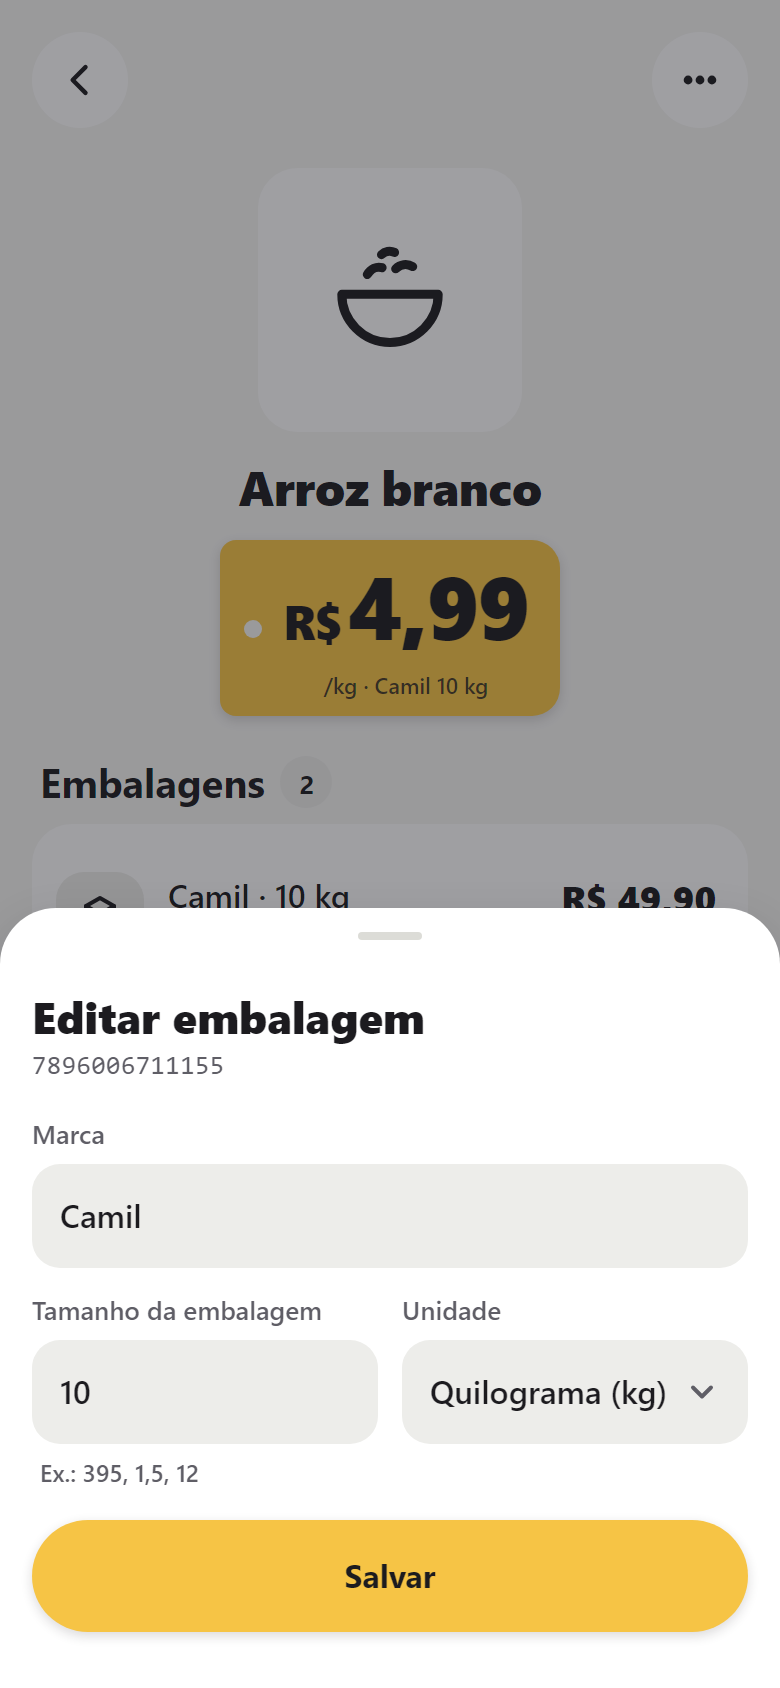
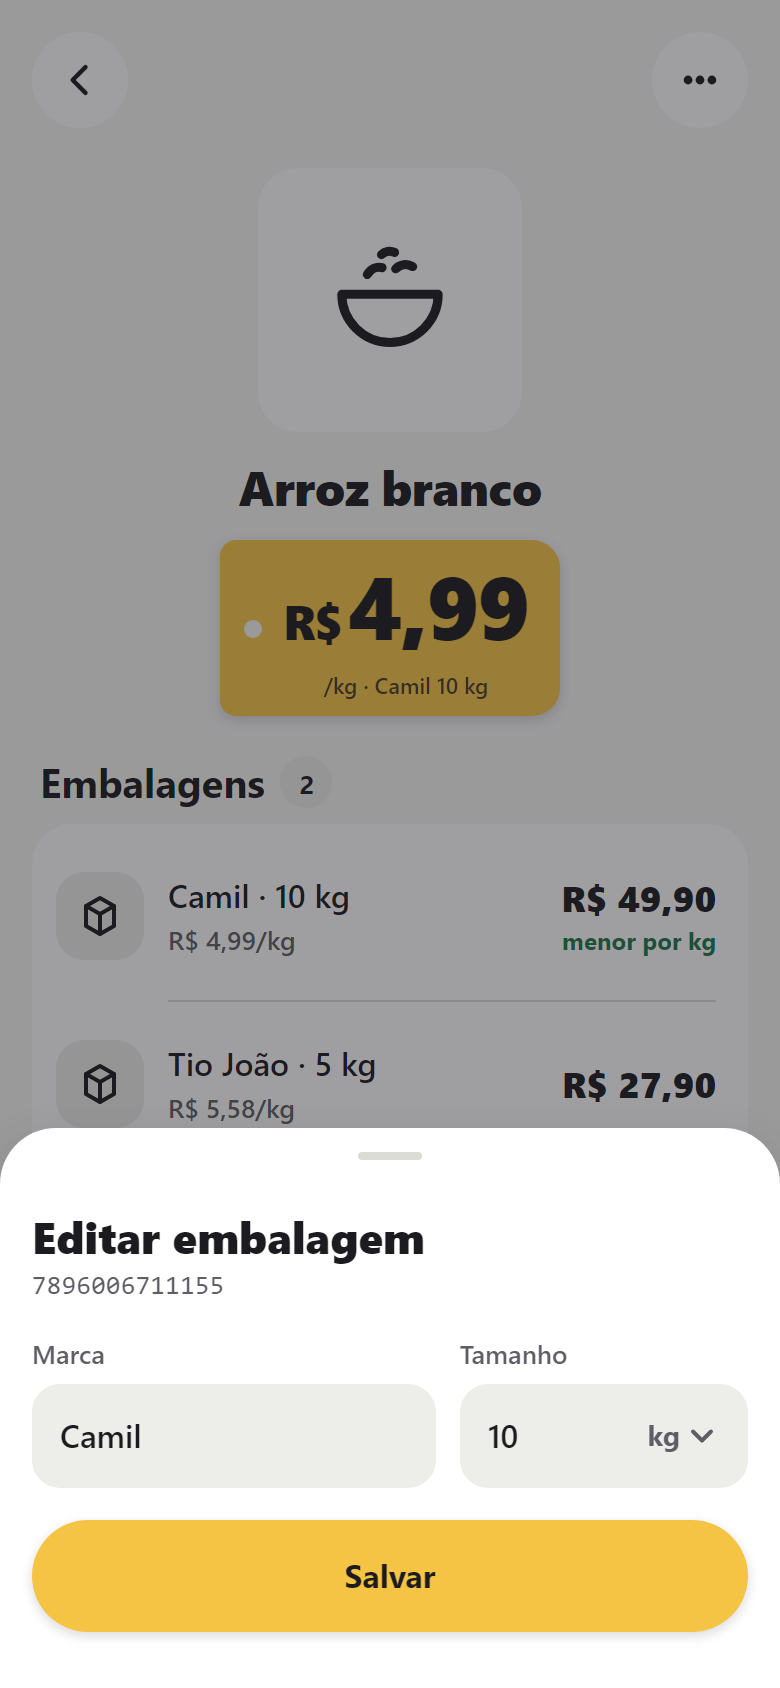
fix(products): dá à folha editar embalagem os campos da embalagem nova
Os campos do Material, em surface sem borda, sumiam sobre a folha branca,
o código vinha na fonte do texto e a unidade ficava num menu à parte. O
quadro EditarEmbalagem é mais novo que a folha e desenha os campos do
design system, e a "Embalagem nova" já tem a unidade dentro do tamanho:
vale o quadro. As duas folhas passam a usar o mesmo PackageFields, o
código vem em JetBrains Mono, e o quadro e o README do protótipo registram
a decisão E1.

diff --git a/test/features/products/presentation/package_edit_sheet_test.dart b/test/features/products/presentation/package_edit_sheet_test.dart
@@ -1,0 +1,116 @@
+import 'package:bipa/core/database/app_database.dart';
+import 'package:bipa/core/database/database_provider.dart';
+import 'package:bipa/core/design_system/bipa_palette.dart';
+import 'package:bipa/core/design_system/bipa_theme.dart';
+import 'package:bipa/core/design_system/bipa_typography.dart';
+import 'package:bipa/core/di/core_providers.dart';
+import 'package:bipa/core/l10n/app_localizations.dart';
+import 'package:bipa/features/products/domain/measure_unit.dart';
+import 'package:bipa/features/products/domain/product.dart';
+import 'package:bipa/features/products/domain/product_package.dart';
+import 'package:bipa/features/products/presentation/package_edit_sheet.dart';
+import 'package:bipa/features/products/presentation/products_providers.dart';
+import 'package:flutter/material.dart';
+import 'package:flutter_localizations/flutter_localizations.dart';
+import 'package:flutter_riverpod/flutter_riverpod.dart';
+import 'package:flutter_test/flutter_test.dart';
+
+import '../../../helpers/fakes.dart';
+import '../../../helpers/test_database.dart';
+
+final _now = DateTime(2026, 10, 28, 9);
+
+final _package = ProductPackage(
+  id: 'camil-10',
+  productId: 'arroz',
+  barcode: '7896006711155',
+  brand: 'Camil',
+  size: 10,
+  unit: MeasureUnit.kilogram,
+  createdAt: _now,
+  updatedAt: _now,
+);
+
+Future<ProviderContainer> _pumpSheet(WidgetTester tester) async {
+  final AppDatabase db = createTestDatabase();
+  final container = ProviderContainer(
+    overrides: [
+      appDatabaseProvider.overrideWithValue(db),
+      clockProvider.overrideWithValue(() => _now),
+      idGeneratorProvider.overrideWithValue(SequentialIdGenerator()),
+    ],
+  );
+  addTearDown(() async {
+    await tester.pumpWidget(const SizedBox());
+    container.dispose();
+    await tester.runAsync(db.close);
+  });
+  await tester.runAsync(() async {
+    final products = container.read(productRepositoryProvider);
+    await products.save(
+      Product(id: 'arroz', name: 'Arroz branco', unit: MeasureUnit.kilogram, createdAt: _now, updatedAt: _now),
+    );
+    await products.savePackage(_package);
+  });
+  await tester.pumpWidget(
+    UncontrolledProviderScope(
+      container: container,
+      child: MaterialApp(
+        theme: BipaTheme.light,
+        locale: const Locale('pt', 'BR'),
+        supportedLocales: const [Locale('pt', 'BR')],
+        localizationsDelegates: const [AppLocalizations.delegate, ...GlobalMaterialLocalizations.delegates],
+        home: Scaffold(body: PackageEditSheet(package: _package)),
+      ),
+    ),
+  );
+  await tester.pumpAndSettle();
+  return container;
+}
+
+void main() {
+  testWidgets('os campos aparecem sobre a folha, e o código vem na fonte dos códigos', (tester) async {
+    await _pumpSheet(tester);
+
+    for (final field in tester.widgetList<TextField>(find.byType(TextField))) {
+      expect(field.decoration?.fillColor, BipaPalette.light.surfaceSunken);
+    }
+    expect(tester.widget<Text>(find.text('7896006711155')).style?.fontFamily, BipaFonts.mono);
+  });
+
+  testWidgets('a unidade fica dentro do campo do tamanho, como na "Embalagem nova"', (tester) async {
+    await _pumpSheet(tester);
+
+    final size = find.ancestor(of: find.text('10'), matching: find.byType(TextField));
+    expect(find.descendant(of: size, matching: find.byType(DropdownButton<MeasureUnit>)), findsOneWidget);
+    expect(find.byType(DropdownMenu<MeasureUnit>), findsNothing);
+  });
+
+  testWidgets('salvar grava a marca, o tamanho e a unidade', (tester) async {
+    final container = await _pumpSheet(tester);
+
+    await tester.enterText(find.ancestor(of: find.text('10'), matching: find.byType(TextField)), '5');
+    await tester.tap(find.text('kg'));
+    await tester.pumpAndSettle();
+    await tester.tap(find.text('g').last);
+    await tester.pumpAndSettle();
+    await tester.tap(find.text('Salvar'));
+    await tester.runAsync(() => Future<void>.delayed(const Duration(milliseconds: 100)));
+    await tester.pumpAndSettle();
+
+    final saved = await tester.runAsync(() => container.read(productRepositoryProvider).findPackageById('camil-10'));
+    expect(saved?.size, 5);
+    expect(saved?.unit, MeasureUnit.gram);
+    expect(saved?.brand, 'Camil');
+  });
+
+  testWidgets('um tamanho que não é número não salva e diz o que está errado', (tester) async {
+    await _pumpSheet(tester);
+
+    await tester.enterText(find.ancestor(of: find.text('10'), matching: find.byType(TextField)), 'dez');
+    await tester.tap(find.text('Salvar'));
+    await tester.pumpAndSettle();
+
+    expect(find.text('O tamanho precisa ser um número, como 5 ou 0,5.'), findsOneWidget);
+  });
+}

diff --git a/lib/features/products/presentation/package_edit_sheet.dart b/lib/features/products/presentation/package_edit_sheet.dart
@@ -4,9 +4,8 @@ import 'package:bipa/core/design_system/bipa_typography.dart';
 import 'package:bipa/core/design_system/components/bipa_toast.dart';
 import 'package:bipa/core/di/core_providers.dart';
 import 'package:bipa/core/l10n/app_localizations.dart';
-import 'package:bipa/features/products/domain/measure_unit.dart';
 import 'package:bipa/features/products/domain/product_package.dart';
-import 'package:bipa/features/products/presentation/measure_unit_label.dart';
+import 'package:bipa/features/products/presentation/package_fields.dart';
 import 'package:bipa/features/products/presentation/products_providers.dart';
 import 'package:flutter/material.dart';
 import 'package:flutter_riverpod/flutter_riverpod.dart';
@@ -106,53 +105,23 @@ class _PackageEditSheetState extends ConsumerState<PackageEditSheet> {
                 header: true,
                 child: Text(l10n.packageEditTitle, style: BipaText.headline.copyWith(fontSize: 22, color: colors.ink)),
               ),
-              if (barcode != null)
-                Text(barcode, style: BipaText.body.copyWith(color: colors.inkMuted, letterSpacing: 0.5)),
+              // O código na fonte dos códigos (JetBrains Mono), como na
+              // "Embalagem nova".
+              if (barcode != null) Text(barcode, style: BipaText.barcode.copyWith(color: colors.inkMuted)),
               const SizedBox(height: BipaSpacing.s4),
-              TextFormField(
-                controller: _brand,
-                textCapitalization: TextCapitalization.words,
-                decoration: InputDecoration(labelText: l10n.packageBrand),
-              ),
-              const SizedBox(height: BipaSpacing.s4),
-              Row(
-                crossAxisAlignment: CrossAxisAlignment.start,
-                children: [
-                  Expanded(
-                    child: TextFormField(
-                      controller: _size,
-                      keyboardType: const TextInputType.numberWithOptions(decimal: true),
-                      decoration: InputDecoration(
-                        labelText: l10n.productPackageSize,
-                        helperText: l10n.productPackageSizeHint,
-                      ),
-                      validator: (value) {
-                        final text = value?.trim() ?? '';
-                        if (text.isEmpty) return null;
-                        final size = _parseSize(text);
-                        return size == null || size <= 0 ? l10n.formInvalidValue : null;
-                      },
-                    ),
-                  ),
-                  const SizedBox(width: BipaSpacing.s3),
-                  Expanded(
-                    child: DropdownMenu<MeasureUnit>(
-                      initialSelection: _unit,
-                      label: Text(l10n.packageUnit),
-                      expandedInsets: EdgeInsets.zero,
-                      dropdownMenuEntries: [
-                        for (final unit in MeasureUnit.values)
-                          DropdownMenuEntry(
-                            value: unit,
-                            label: l10n.measureUnitOption(unit.localizedLabel(l10n), unit.symbol),
-                          ),
-                      ],
-                      onSelected: (unit) {
-                        if (unit != null) setState(() => _unit = unit);
-                      },
-                    ),
-                  ),
-                ],
+              // Os mesmos campos da "Embalagem nova", com a unidade dentro do
+              // tamanho.
+              PackageFields(
+                brand: _brand,
+                size: _size,
+                unit: _unit,
+                onUnitChanged: (unit) => setState(() => _unit = unit),
+                sizeValidator: (value) {
+                  final text = value?.trim() ?? '';
+                  if (text.isEmpty) return null;
+                  final size = _parseSize(text);
+                  return size == null || size <= 0 ? l10n.packageSizeInvalid : null;
+                },
               ),
               const SizedBox(height: BipaSpacing.s6),
               FilledButton(

diff --git a/lib/features/products/presentation/new_package_sheet.dart b/lib/features/products/presentation/new_package_sheet.dart
@@ -18,6 +18,7 @@ import 'package:bipa/features/products/domain/product.dart';
 import 'package:bipa/features/products/domain/product_package.dart';
 import 'package:bipa/features/products/domain/register_package.dart';
 import 'package:bipa/features/products/domain/unit_price.dart';
+import 'package:bipa/features/products/presentation/package_fields.dart';
 import 'package:bipa/features/products/presentation/product_picker_sheet.dart';
 import 'package:bipa/features/products/presentation/products_providers.dart';
 import 'package:flutter/material.dart';
@@ -155,7 +156,6 @@ class _NewPackageSheetState extends ConsumerState<NewPackageSheet> {
     final name = _productName;
     final price = widget.price;
     final unitPrice = price == null ? null : UnitPrice.of(price: price, packageSize: _sizeValue, unit: _unit);
-    final field = InputDecoration(fillColor: colors.surfaceSunken);
 
     return Padding(
       padding: EdgeInsets.only(bottom: MediaQuery.viewInsetsOf(context).bottom),
@@ -214,51 +214,15 @@ class _NewPackageSheetState extends ConsumerState<NewPackageSheet> {
               ),
             ),
             const SizedBox(height: BipaSpacing.s4),
-            Row(
-              crossAxisAlignment: CrossAxisAlignment.start,
-              children: [
-                Expanded(
-                  flex: 7,
-                  child: TextField(
-                    controller: _brand,
-                    textCapitalization: TextCapitalization.words,
-                    decoration: field.copyWith(labelText: l10n.packageBrand),
-                  ),
-                ),
-                const SizedBox(width: BipaSpacing.s3),
-                Expanded(
-                  flex: 5,
-                  child: TextField(
-                    controller: _size,
-                    keyboardType: const TextInputType.numberWithOptions(decimal: true),
-                    decoration: field.copyWith(
-                      labelText: l10n.packageSize,
-                      suffixIcon: Semantics(
-                        label: l10n.packageUnit,
-                        child: DropdownButtonHideUnderline(
-                          child: DropdownButton<MeasureUnit>(
-                            value: _unit,
-                            borderRadius: BorderRadius.circular(BipaRadius.md),
-                            style: BipaText.label.copyWith(color: colors.inkMuted),
-                            items: [
-                              for (final unit in MeasureUnit.values)
-                                DropdownMenuItem(value: unit, child: Text(unit.symbol)),
-                            ],
-                            onChanged: (unit) {
-                              if (unit == null) return;
-                              setState(() {
-                                _unit = unit;
-                                _unitChosen = true;
-                              });
-                            },
-                          ),
-                        ),
-                      ),
-                    ),
-                    onChanged: (_) => setState(() {}),
-                  ),
-                ),
-              ],
+            PackageFields(
+              brand: _brand,
+              size: _size,
+              unit: _unit,
+              onUnitChanged: (unit) => setState(() {
+                _unit = unit;
+                _unitChosen = true;
+              }),
+              onSizeChanged: (_) => setState(() {}),
             ),
             if (price != null) ...[
               const SizedBox(height: BipaSpacing.s4),

diff --git a/lib/features/products/presentation/package_fields.dart b/lib/features/products/presentation/package_fields.dart
@@ -1,0 +1,80 @@
+import 'package:bipa/core/design_system/bipa_metrics.dart';
+import 'package:bipa/core/design_system/bipa_theme.dart';
+import 'package:bipa/core/design_system/bipa_typography.dart';
+import 'package:bipa/core/l10n/app_localizations.dart';
+import 'package:bipa/features/products/domain/measure_unit.dart';
+import 'package:flutter/material.dart';
+
+/// Os campos de uma embalagem, iguais na "Embalagem nova" e em "Editar
+/// embalagem": a marca e, ao lado, o tamanho com a unidade dentro do campo
+/// ("5 kg"). Os campos ficam em `surface-sunken` para aparecerem sobre a
+/// folha clara.
+class PackageFields extends StatelessWidget {
+  const PackageFields({
+    required this.brand,
+    required this.size,
+    required this.unit,
+    required this.onUnitChanged,
+    this.onSizeChanged,
+    this.sizeValidator,
+    super.key,
+  });
+
+  final TextEditingController brand;
+  final TextEditingController size;
+  final MeasureUnit unit;
+  final ValueChanged<MeasureUnit> onUnitChanged;
+  final ValueChanged<String>? onSizeChanged;
+
+  /// Validação do tamanho dentro de um [Form]; sem [Form], não roda.
+  final FormFieldValidator<String>? sizeValidator;
+
+  @override
+  Widget build(BuildContext context) {
+    final l10n = AppLocalizations.of(context);
+    final colors = context.colors;
+    final field = InputDecoration(fillColor: colors.surfaceSunken);
+    return Row(
+      crossAxisAlignment: CrossAxisAlignment.start,
+      children: [
+        Expanded(
+          flex: 7,
+          child: TextFormField(
+            controller: brand,
+            textCapitalization: TextCapitalization.words,
+            decoration: field.copyWith(labelText: l10n.packageBrand),
+          ),
+        ),
+        const SizedBox(width: BipaSpacing.s3),
+        Expanded(
+          flex: 5,
+          child: TextFormField(
+            controller: size,
+            keyboardType: const TextInputType.numberWithOptions(decimal: true),
+            validator: sizeValidator,
+            decoration: field.copyWith(
+              labelText: l10n.packageSize,
+              suffixIcon: Semantics(
+                label: l10n.packageUnit,
+                child: DropdownButtonHideUnderline(
+                  child: DropdownButton<MeasureUnit>(
+                    value: unit,
+                    borderRadius: BorderRadius.circular(BipaRadius.md),
+                    style: BipaText.label.copyWith(color: colors.inkMuted),
+                    items: [
+                      for (final unit in MeasureUnit.values) DropdownMenuItem(value: unit, child: Text(unit.symbol)),
+                    ],
+                    onChanged: (unit) {
+                      if (unit != null) onUnitChanged(unit);
+                    },
+                  ),
+                ),
+              ),
+            ),
+            onChanged: onSizeChanged,
+          ),
+        ),
+      ],
+    );
+  }
+}

diff --git a/docs/design/prototipo/fonte/EditarEmbalagem.dc.html b/docs/design/prototipo/fonte/EditarEmbalagem.dc.html
@@ -52,11 +52,10 @@ body{margin:0}
 .sheet-title{margin:0;font:800 22px/28px var(--font-display);color:var(--ink)}
 .barcode{font:500 13px/18px var(--font-mono);color:var(--ink-muted);letter-spacing:.02em}
 /* Campos como os da "Embalagem nova": rótulo em cima, caixa em surface-sunken. */
-.fields{display:grid;grid-template-columns:minmax(0,1fr) minmax(0,1fr);gap:12px}
+.fields{display:grid;grid-template-columns:minmax(0,1.4fr) minmax(0,1fr);gap:12px}
 .field{display:grid;gap:6px;min-width:0;align-content:start}
-.field.wide{grid-column:1 / -1}
 .field label{font:600 13px/18px var(--font-body);color:var(--ink-muted)}
-.field small{font:500 12px/16px var(--font-body);color:var(--ink-muted);padding:0 4px}
+.box .unit{display:inline-flex;align-items:center;gap:2px;font:700 14px/18px var(--font-body);color:var(--ink-muted)}
 .box{display:flex;align-items:center;justify-content:space-between;gap:8px;height:52px;padding:0 14px;border-radius:var(--radius-md);background:var(--surface-sunken);font:600 16px/20px var(--font-body);color:var(--ink)}
 .box svg{width:18px;height:18px;flex:none;color:var(--ink-muted)}
 .sheet .bipa-btn{width:100%;height:56px;font-size:16px}
@@ -128,9 +127,8 @@ body{margin:0}
       <span class="barcode" aria-label="Código 7 8 9 6 0 0 6 7 1 1 1 5 5">7896006711155</span>
     </div>
     <div class="fields">
-      <div class="field wide"><label for="emb-marca">Marca</label><div class="box" id="emb-marca">Camil</div></div>
-      <div class="field"><label for="emb-tamanho">Tamanho da embalagem</label><div class="box" id="emb-tamanho">10</div><small>Ex.: 395, 1,5, 12</small></div>
-      <div class="field"><label for="emb-unidade">Unidade</label><div class="box" id="emb-unidade" role="button" aria-haspopup="listbox">Quilograma (kg)<svg viewBox="0 0 24 24" fill="none" stroke="currentColor" stroke-width="2.6" stroke-linecap="round" stroke-linejoin="round" aria-hidden="true"><path d="M6 9l6 6 6-6"/></svg></div></div>
+      <div class="field"><label for="emb-marca">Marca</label><div class="box" id="emb-marca">Camil</div></div>
+      <div class="field"><label for="emb-tamanho">Tamanho</label><div class="box" id="emb-tamanho">10<span class="unit" role="button" aria-label="Unidade: kg" aria-haspopup="listbox">kg <svg width="16" height="16" viewBox="0 0 24 24" fill="none" stroke="currentColor" stroke-width="2.6" stroke-linecap="round" stroke-linejoin="round" aria-hidden="true"><path d="M6 9l6 6 6-6"/></svg></span></div></div>
     </div>
     <a class="bipa-btn bipa-btn--primary" href="ProdutoEmbalagens.dc.html"><span>Salvar</span></a>
   </section>

diff --git a/docs/design/prototipo/README.md b/docs/design/prototipo/README.md
@@ -36,7 +36,7 @@ Cada tela tem uma imagem (390 px de largura, em 2x) e o HTML de origem em [`font
 | **Dar baixa em casa, aviso e snackbar**: quando a lista muda ("foi para a lista", "saiu da lista", "falta 1 na lista"), o aviso do visor só diz o estoque, e o snackbar diz o que mudou na lista, com o Desfazer que volta os dois. Desenhado a partir do app. | [CapturaUsei.png](telas/CapturaUsei.png) | Feita; o quadro aguarda revisão. O snackbar virou o aviso do design system (`bipa-toast`, raio 20, com a linha do tempo), e o quadro foi refeito com ele ([decisão S1](#divergências-resolvidas)). Diferença do design system: nos dois quadros, nada na tela diz em que modo a câmera está depois que o aviso cobre a dica |
 | **Produto, preço em destaque velho** (F4): quando o melhor preço tem 30 dias ou mais, a linha da etiqueta troca a embalagem pelo mercado e a idade ("/kg · Supermercado Central · há 41 dias"), porque pode ser uma promoção que acabou. Desenhado a partir do app. | [ProdutoPrecoVelho.png](telas/ProdutoPrecoVelho.png) | Feita; o quadro aguarda revisão. O `PriceTagHero` ganhou o furo, a `shadow-raised` e os cantos de 8 e 14 do guia, e os quadros do produto passaram de "o kg" para "/kg", como o app ([decisão P1](#divergências-resolvidas)) |
 | **Início, editor da linha aberto**: o stepper (com fundo `alert-soft` abaixo do "ter sempre") e, na linha de baixo, a lista, o chip "Ter sempre 3", que abre a folha do item, e o "⋯ Mais do item". Desenhado a partir do app. | [MainEditor.png](telas/MainEditor.png) | Feita; o quadro aguarda revisão. Diferenças do `StockStepper.md`: o guia tem uma linha só, com o botão "Pôr na lista" escrito; o app usa um ícone sem texto para a lista e acrescenta o chip e o "⋯", que o guia não tem |
-| **Produto, editar embalagem** (G1): no menu "⋯" da tela do produto, "Editar embalagem" (com mais de uma, pergunta qual antes) abre a folha com o código, a marca, o tamanho e a unidade. Mudar o tamanho refaz o preço por kg de todo o histórico. Desenhado a partir do app. | [EditarEmbalagem.png](telas/EditarEmbalagem.png) | Feita; o quadro aguarda revisão. Diferenças: os campos do app são os do Material, com preenchimento `surface` sem borda, e somem sobre a folha branca; o código vem na fonte do texto, não em JetBrains Mono; a unidade fica num menu à parte ("Quilograma (kg)"), e não dentro do campo do tamanho como na "Embalagem nova" |
+| **Produto, editar embalagem** (G1): no menu "⋯" da tela do produto, "Editar embalagem" (com mais de uma, pergunta qual antes) abre a folha com o código, a marca, o tamanho e a unidade. Mudar o tamanho refaz o preço por kg de todo o histórico. Desenhado a partir do app. | [EditarEmbalagem.png](telas/EditarEmbalagem.png) | Feita; o quadro aguarda revisão. A folha usa os campos da "Embalagem nova" (`surface-sunken`, a unidade dentro do tamanho) e o código em JetBrains Mono, e o quadro foi refeito com eles ([decisão E1](#divergências-resolvidas)) |
 | **Produtos** (H1): a aba com os componentes de Mercados: título, a busca com o bipar dentro (que abre a câmera no modo Código, no lugar do leitor antigo) e os produtos em ordem alfabética num cartão, com a miniatura da categoria, a embalagem (ou quantas são) e o preço, com o preço por unidade quando há mais de uma embalagem. "Cadastrar produto" fecha a lista, como "Cadastrar mercado". | [Produtos.png](telas/Produtos.png) | Aguarda revisão. O app usa `AppBar`, `SearchBar` e `ListTile` do Material, com a mesma cesta para todos os produtos |
 | **Proposta: navegação com letra grande** (H8), num celular de 360 dp com a letra do Android em 130% e, embaixo, em 200%. **A:** a barra de hoje, com os rótulos limitados a 130% e encolhidos até caber, todos no mesmo tamanho, e o rótulo grande num balão ao segurar o destino. **B:** com letra grande, o bipar sai do meio e flutua acima da barra, à direita, e os quatro destinos dividem a largura, com rótulos maiores. Nas duas, a barra não encolhe ao rolar com letra grande nem com o TalkBack. O quadro tem 780 px de largura, para mostrar as duas lado a lado. | [NavLetraGrande.png](telas/NavLetraGrande.png) | Proposta, aguarda revisão e a escolha entre A e B. O app corta os rótulos ("Produt", "Merca") a partir de uns 120% |
 
@@ -49,6 +49,7 @@ Regra do mantenedor (28/10/2026): **vale a versão mais atual, desde que seja co
 | S1 | [CapturaUsei](telas/CapturaUsei.png) | Snackbar em pílula, sem a linha do tempo; o Desfazer não sumia sozinho (`persist` do Flutter 3.47) | Design system (`bipa-toast`) | O tema do snackbar é de 27/10, e o `bipa-toast` veio na exportação de 28/10 (12:18). O código mudou: `showBipaToast` desenha o aviso com a linha do tempo, e o aviso com ação some em 4 s (6 s no fim da compra), exceto com leitor de tela, em que fica até o toque. Faltam migrar as chamadas da câmera e do carrinho |
 | P1 | [ProdutoPrecoVelho](telas/ProdutoPrecoVelho.png) | `PriceTagHero` sem furo nem sombra, raio 20 nos quatro cantos | Design system | O código (28/10, 15:10) é mais novo que a exportação (12:18), mas nunca decidiu tirar o furo: só ficou incompleto. A decisão mais nova é o ícone do app (29/10, 00:25), a etiqueta "com o furo, o mesmo da PriceTag", e todos os quadros têm o furo. O código mudou, e vale para todas as telas que usam a etiqueta (produto, conferir e salvar, folha do preço, embalagem nova, fim da compra) |
 | P1 | [ProdutoPrecoVelho](telas/ProdutoPrecoVelho.png) | "/kg" no app, "o kg" nos quadros | App | "o kg" vem dos quadros do produto (28/10, 14:50); o "/kg" do app veio depois (15:31) e foi reafirmado no H4 (22:15), com "o quilo" para o leitor de tela. É também a forma das linhas de preço, da bandeja e da prévia do próprio `PriceTag`. Mudaram os cinco quadros do produto e o guia `PriceTag.md` |
+| E1 | [EditarEmbalagem](telas/EditarEmbalagem.png) | Campos do Material em `surface` que somem sobre a folha, código sem a fonte mono, unidade num menu à parte | Quadro e design system | A folha do app é de 28/10 (22:19), e o quadro, de 29/10 (00:24), já desenhava os campos em `surface-sunken` e o código em mono. A "Embalagem nova", a outra folha que edita embalagem, tem a unidade dentro do campo do tamanho. O código mudou: as duas folhas usam o mesmo `PackageFields`, e o quadro também passou a ter a unidade no campo |
 
 ## Ainda não desenhado
 
